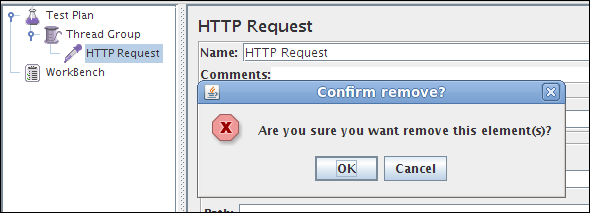
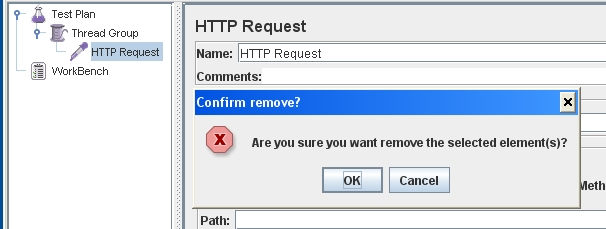
Allow confirm delete dialogue to be suppressed
git-svn-id: http://svn.apache.org/repos/asf/jmeter/trunk@1235112 13f79535-47bb-0310-9956-ffa450edef68

Changed region(s): [[0.0, 0.0, 1.0, 1.0], [0.5186, 0.7042, 0.7627, 0.8732]]

diff --git a/src/core/org/apache/jmeter/gui/action/Remove.java b/src/core/org/apache/jmeter/gui/action/Remove.java
@@ -37,6 +37,9 @@ public class Remove implements Command {
 
     private static final Set<String> commands = new HashSet<String>();
 
+    // Whether to skip the delete confirmation dialogue
+    private static final boolean SKIP_CONFIRM = JMeterUtils.getPropDefault("confirm.delete.skip", false); // $NON-NLS-1$
+
     static {
         commands.add(ActionNames.REMOVE);
     }
@@ -57,7 +60,8 @@ public class Remove implements Command {
     }
 
     public void doAction(ActionEvent e) {
-        int isConfirm = JOptionPane.showConfirmDialog(null, 
+        
+        int isConfirm = SKIP_CONFIRM ? JOptionPane.YES_OPTION : JOptionPane.showConfirmDialog(null, 
                 JMeterUtils.getResString("remove_confirm_msg"),// $NON-NLS-1$
                 JMeterUtils.getResString("remove_confirm_title"), // $NON-NLS-1$
                 JOptionPane.WARNING_MESSAGE,
